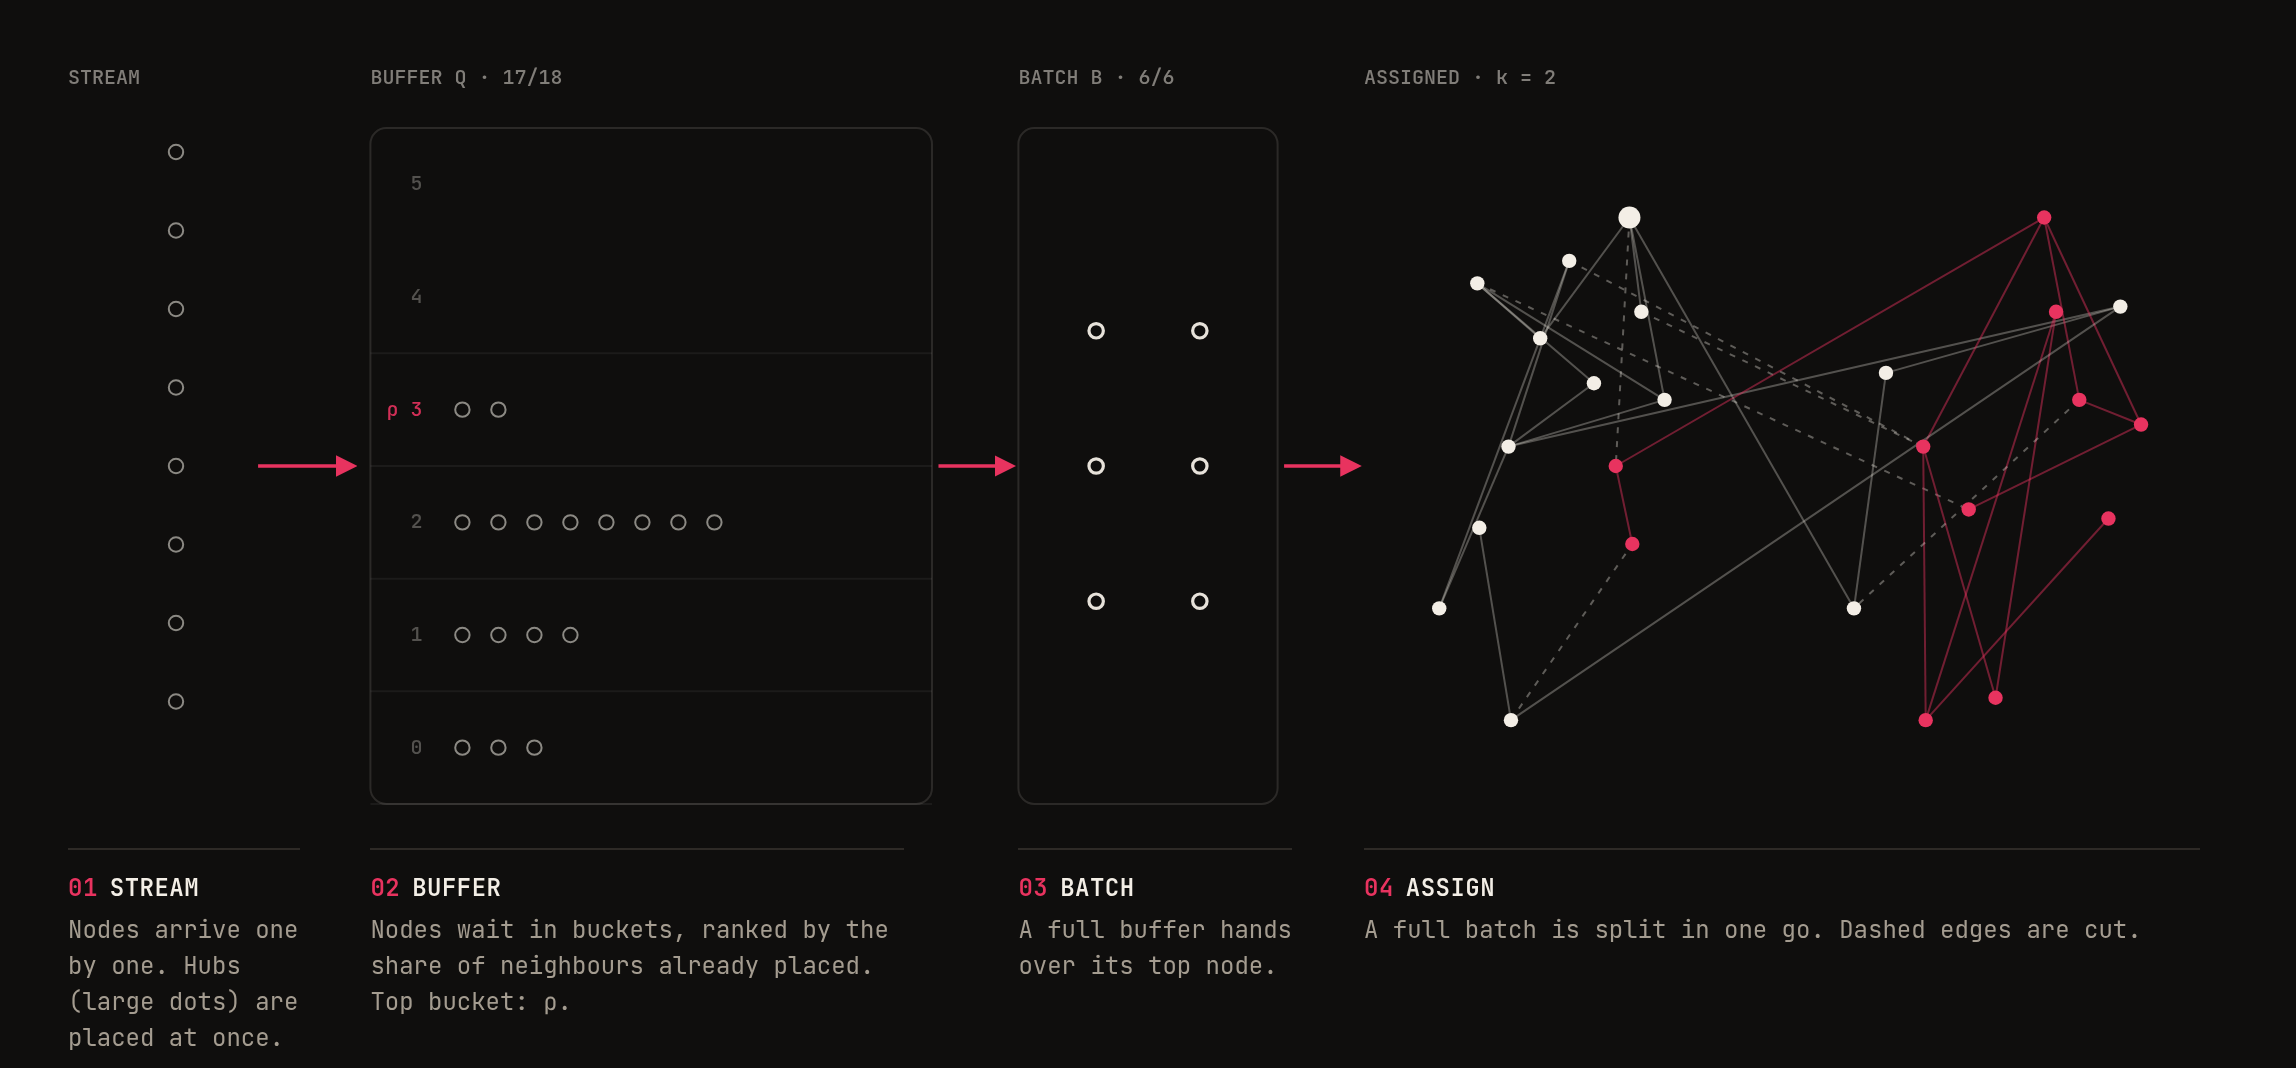
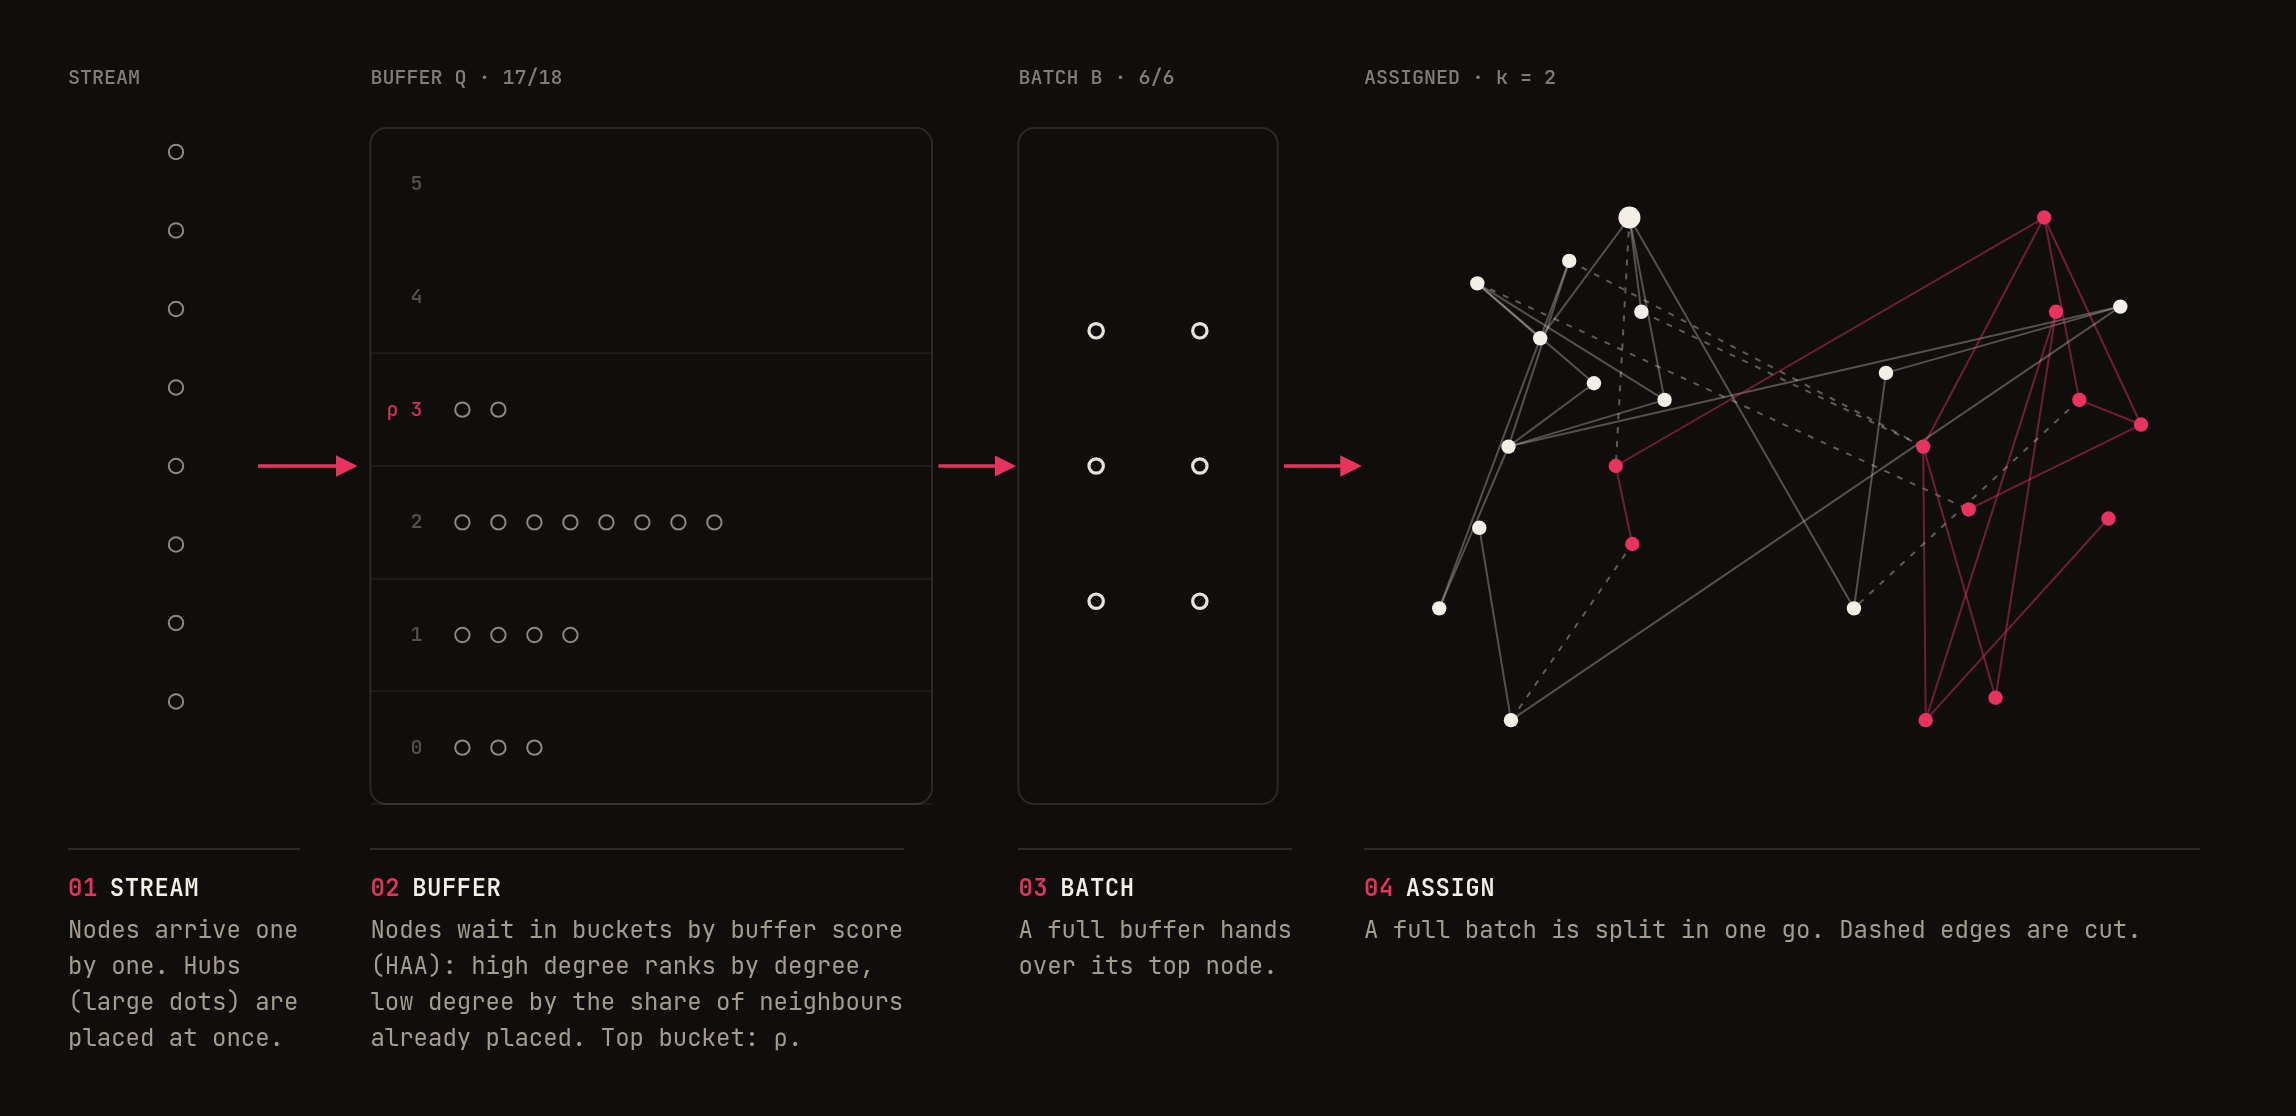
Describe HAA buffer score in figure and README

diff --git a/README.md b/README.md
@@ -12,7 +12,7 @@ BuffCut partitions graphs that are too large to hold in memory. Nodes arrive as 
 </picture>
 <p align="center"><sub>Snapshot of BuffCut on a toy graph (k = 2, buffer 18, batch 6). <b><a href="https://libaum.de/#research">Watch it run step by step →</a></b></sub></p>
 
-The buffer is a bucket priority queue with amortized O(1) updates, so reprioritising nodes stays cheap under tight memory limits. Each batch is partitioned with a multilevel scheme on a small model graph in which each existing block is represented by one auxiliary node.
+Buffered nodes are ranked by the Hub-Aware Assigned Neighbors Ratio, $\mathrm{HAA}(v) = \hat{d}(v)^{\beta} + \theta\,(1 - \hat{d}(v))\,\mathrm{ANR}(v)$, where $\hat{d}$ is the normalised degree and ANR the share of neighbours already assigned. High-degree nodes are thus prioritised by degree, low-degree nodes by their placed neighbourhood. The buffer is a bucket priority queue with amortized O(1) updates, so reprioritising nodes stays cheap under tight memory limits. Each batch is partitioned with a multilevel scheme on a small model graph in which each existing block is represented by one auxiliary node.
 
 ## Results
 
